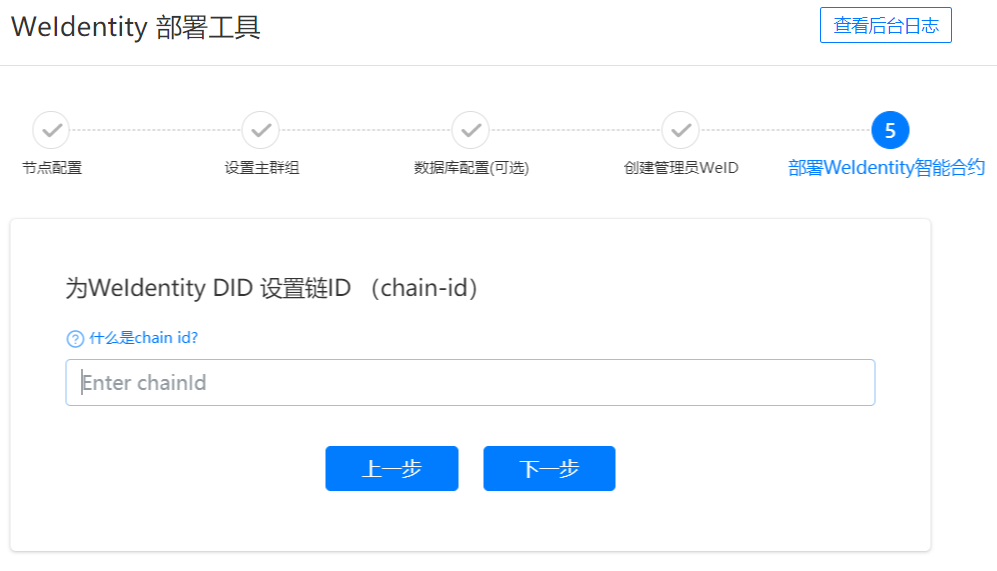
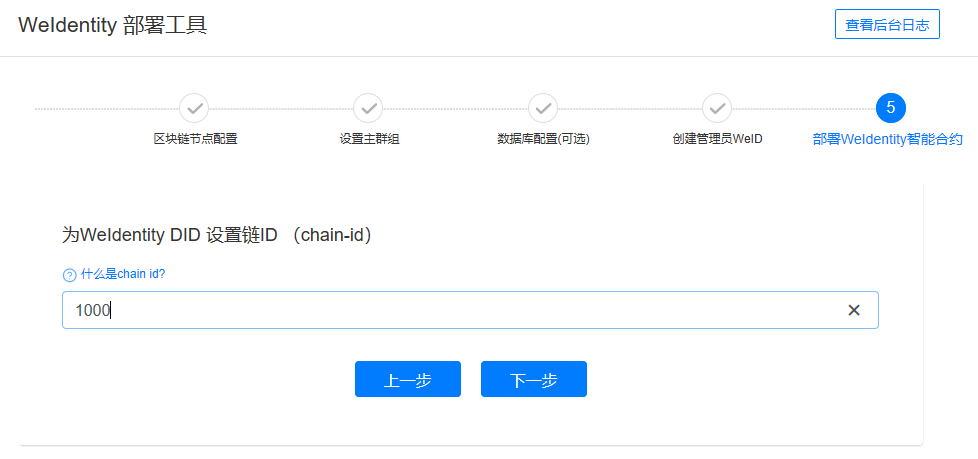
[20200730] Corrected typos and updated pictures n beginner_guide.md and deploy-via-web.rst

diff --git a/readthedocs/zh_CN/docs/deploy-via-web.rst b/readthedocs/zh_CN/docs/deploy-via-web.rst
@@ -38,7 +38,7 @@
       :alt: deploy-via-web-guide-setup-blockchain.png
 
    - 机构名称
-      * 配置说明：机构名称用于标识机构唯一性, 类似域名的作用，在同一条联盟链上，先注册先得。例如微众，可以填入"webank"作为其机构名称。
+      * 配置说明：机构名称用于标识机构唯一性, 类似域名的作用，在同一条联盟链上，先注册先得。例如微众，可以填入"WeBank"作为其机构名称。
       * 配置要求：建议使用机构的英文名称或简称, 并确保机构名称在联盟链成员中唯一。
 
    - AMOP 通讯 ID
@@ -60,7 +60,7 @@
       * 配置要求：登录区块链节点服务器, 生成/拷贝证书文件, 并下载到本机后上传。SDK 证书文件包括 ca.crt, node.crt 和 node.key。
 
 .. note::
-     1. \ `「如何获得 SDK 证书?」 <https://fisco-bcos-documentation.readthedocs.io/zh_CN/latest/docs/enterprise_tools/operation.html#get-sdk-file>`_\
+     1. \ `「如何获得 SDK 证书文件?」 <https://fisco-bcos-documentation.readthedocs.io/zh_CN/latest/docs/enterprise_tools/operation.html#get-sdk-file>`_\
      2. \ `「区块链中的各种证书」 <https://fisco-bcos-documentation.readthedocs.io/zh_CN/latest/docs/manual/certificates.html>`_\
 
 第2步: 选择主群组
@@ -101,15 +101,14 @@
 第5步: 部署 WeIdentity 智能合约（仅联盟链委员会管理员需要执行这一步骤）
 """"""""""""""""""""""""""""""""""""""""""""""""""""""""""""""""""""
 
-此步骤将部署 WeIdentity 智能合约 到指定的区块链上, 如图所示。
+此步骤将部署 WeIdentity 智能合约到指定的区块链上, 如图所示。
 
    .. image:: images/deploy-via-web-guide-deploy-weid-contract.png
       :alt: deploy-via-web-guide-deploy-weid-contract.png
 
    - 配置链 ID (chain-id)
          * 配置说明：\ `「什么是链 ID (Chain Id) ?」 <./weidentity-spec.html#id4>`_\
-         * 如果是为了测试或者体验部署工具流程，可以填入一个随意的数字，例如1000
-
+         * 如果是为了测试或者体验部署工具流程，可以填入一个随意的数字，例如1000。
 
 最后
 """"""""""""""""""""""""""""""""""""""""""

diff --git a/readthedocs/en/docs/beginner_guide.md b/readthedocs/en/docs/beginner_guide.md
@@ -111,7 +111,7 @@ cns_profile_active=test
 cd ~/weid/weid-build-tools &&
 cp -f ~/fisco/nodes/127.0.0.1/sdk/ca.crt ~/weid/weid-build-tools/resources &&
 cp -f ~/fisco/nodes/127.0.0.1/sdk/node.crt ~/weid/weid-build-tools/resources &&
-cp -f ~/fisco/nodes/127.0.0.1/sdk/node.key ~/weid/weid-build-tools/resources &&
+cp -f ~/fisco/nodes/127.0.0.1/sdk/node.key ~/weid/weid-build-tools/resources
 ```   
   + Deploy WeIdentity JAVA SDK and WeIdentity Contract.   
 ```
